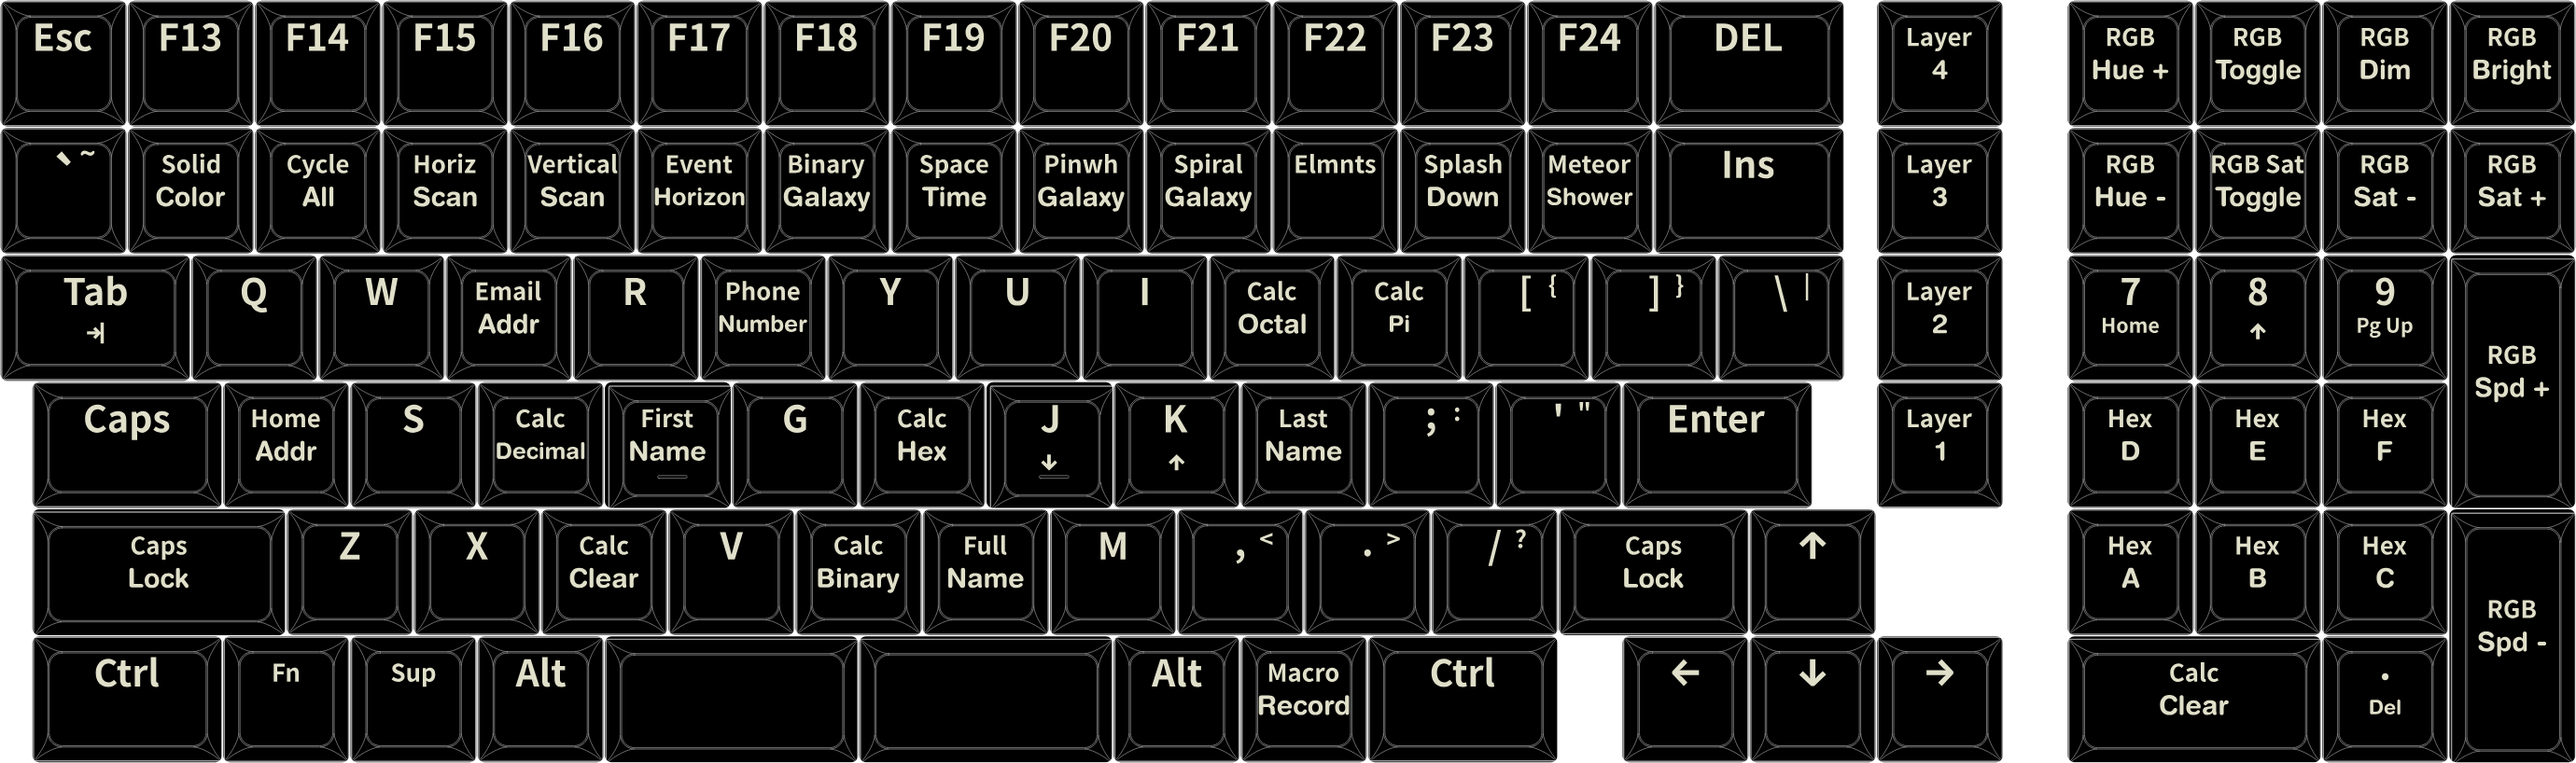
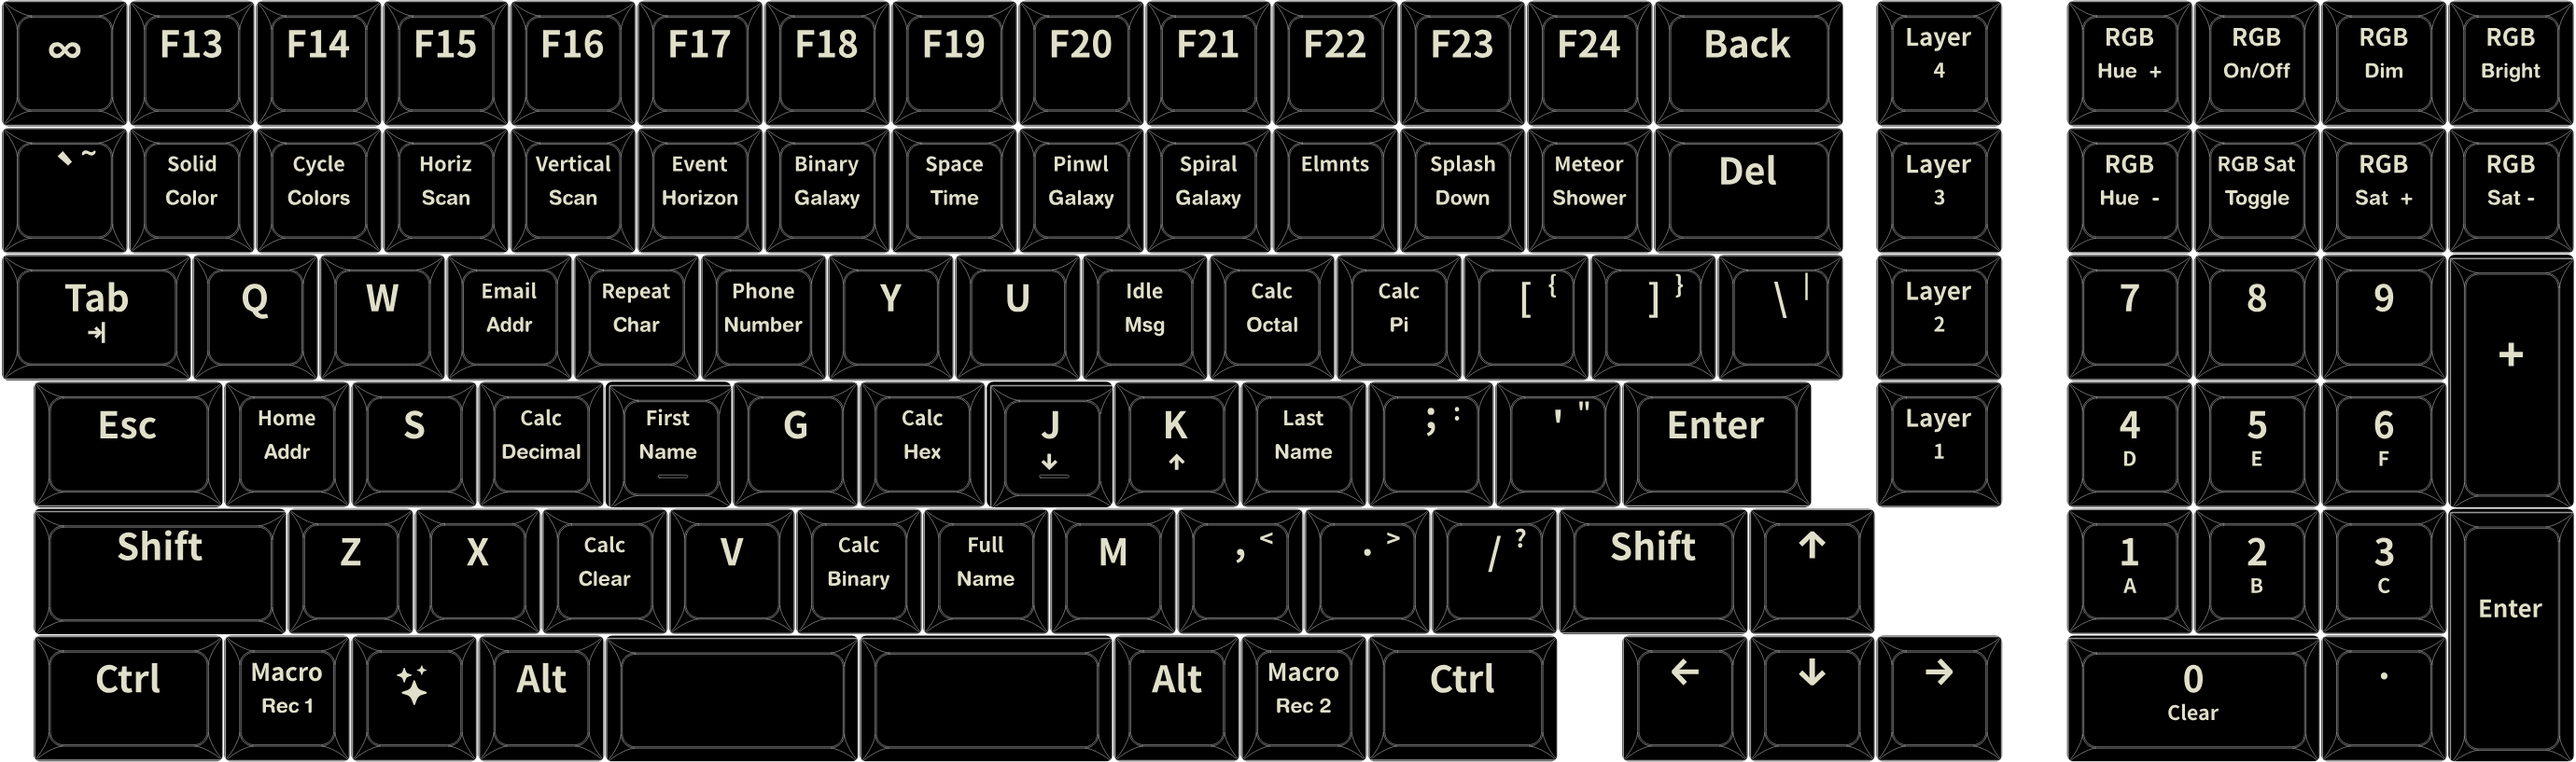
Numerous changes/fixes, added Repeat Character function

diff --git a/keymap.c b/keymap.c
@@ -1,10 +1,12 @@
 #include QMK_KEYBOARD_H
+#include "system76_ec.h"
 #include "process_record_handlers.h"
 #include "timer.h"
 #include "static_macros.h"
 #include "custom_keycodes.h"
 #include "idle_messages.h"
 #include "calculator.h"
+#include "repeat.h"
 #include "rgb.h"
 #include <stdio.h>
 
@@ -38,22 +40,22 @@ const uint16_t PROGMEM keymaps[][MATRIX_ROWS][MATRIX_COLS] = {
   /* Layer 0, default layer
 __________________________________________________________________________________________________________________________________  ________  ___________________________________
 |        |        |        |        |        |        |        |        |        |        |        |        |        |            ||        || PRINT  |  MUTE  | VOLUME | VOLUME |
-|  ESC   |   F1   |   F2   |   F3   |   F4   |   F5   |   F6   |   F7   |   F8   |   F9   |  F10   |  F11   |  F12   |  DELETE    ||  HOME  || SCREEN |        |  DOWN  |   UP   |
+| ESC/FN |   F1   |   F2   |   F3   |   F4   |   F5   |   F6   |   F7   |   F8   |   F9   |  F10   |  F11   |  F12   | BACKSPACE  ||  HOME  || SCREEN |        |  DOWN  |   UP   |
 |________|________|________|________|________|________|________|________|________|________|________|________|________|____________||________||________|________|________|________|
 |        |        |        |        |        |        |        |        |        |        |        |        |        |            ||        || NUM    | NUM    | NUM    | NUM    |
-|  ~`    |   1    |   2    |   3    |   4    |   5    |   6    |   7    |   8    |   9    |   0    |  _ -   | =  +   | BACKSPACE  ||  PGUP  || LOCK   | SLASH  |  *     |  -     |
+|  ~`    |   1    |   2    |   3    |   4    |   5    |   6    |   7    |   8    |   9    |   0    |  _ -   | =  +   |   DELETE   ||  PGUP  || LOCK   | SLASH  |  *     |  -     |
 |________|________|________|________|________|________|________|________|________|________|________|________|________|____________||________||________|________|________|________|
 |            |        |        |        |        |        |        |        |        |        |        |  [     |   ]    |        ||        || NUM    | NUM    | NUM    |        |
 |     TAB    |   Q    |   W    |   E    |   R    |   T    |   Y    |   U    |   I    |   O    |   P    |  {     |   }    |  |   \ ||  PGDN  ||  7     |  8     |  9     |        |
 |____________|________|________|________|________|________|________|________|________|________|________|________|________|________||________||________|________|________| NUM    |
   |            |        |        |        |        |        |        |        |        |        |   ;    |   '    |            |   |        || NUM    | NUM    | NUM    |  +     |
-  |    CAPS    |   A    |   S    |   D    |   F    |   G    |   H    |   J    |   K    |   L    |   :    |   "    |   ENTER    |   |  END   ||  4     |  5     |  6     |        |
+  |     ESC    |   A    |   S    |   D    |   F    |   G    |   H    |   J    |   K    |   L    |   :    |   "    |   ENTER    |   |  END   ||  4     |  5     |  6     |        |
   |____________|________|________|________|________|________|________|________|________|________|________|________|____________|___|________||________|________|________|________|
   |                |        |        |        |        |        |        |        |   ,    |    .   |   /    |            |        |         | NUM    | NUM    | NUM    |        |
   |     SHIFT      |   Z    |   X    |   C    |   V    |   B    |   N    |   M    |   <    |    >   |   ?    |   SHIFT    |   UP   |         |  1     |  2     |  3     |        |
   |________________|________|________|________|________|________|________|________|________|________|________|____________|________|________ |________|________|________| NUM    |
   |            |        |       |        |                 |                 |        |        |             |   |        |        |        ||       NUM       | NUM    | ENTER  |
-  |    CTRL    |   FN   |  SUP  |  LALT  |    SPACE        |      SPACE      |  RALT  |  MACRO |    CTRL     |   |  LEFT  |  DOWN  | RIGHT  ||        0        |  .     |        |
+  |    CTRL    | MACRO1 |  SUP  |  LALT  |    SPACE        |      SPACE      |  RALT  | MACRO2 |    CTRL     |   |  LEFT  |  DOWN  | RIGHT  ||        0        |  .     |        |
   |____________|________|_______|________|_________________|_________________|________|________|_____________|   |________|________|________||_________________|________|________|
 */
 
@@ -61,18 +63,18 @@ ________________________________________________________________________________
     LT(1,KC_ESC), KC_F1, KC_F2, KC_F3,  KC_F4,   KC_F5,   KC_F6,   KC_F7,   KC_F8,   KC_F9,   KC_F10,  KC_F11,  KC_F12,  KC_BSPC,      KC_HOME,  KC_PSCR, KC_MUTE, KC_VOLD, KC_VOLU,
     KC_GRV,  KC_1,    KC_2,    KC_3,    KC_4,    KC_5,    KC_6,    KC_7,    KC_8,    KC_9,    KC_0,    KC_MINS, KC_EQL,  KC_DEL,       KC_PGUP,  KC_NUM,  KC_PSLS, KC_PAST, KC_PMNS,
         KC_TAB,  KC_Q,    KC_W,    KC_E,    KC_R,    KC_T,    KC_Y,    KC_U,    KC_I,    KC_O,    KC_P,    KC_LBRC, KC_RBRC, KC_BSLS,  KC_PGDN,  KC_P7,   KC_P8,   KC_P9,   KC_PPLS,
-          KC_CAPS, KC_A,    KC_S,    KC_D,    KC_F,    KC_G,    KC_H,    KC_J,    KC_K,    KC_L,    KC_SCLN, KC_QUOT,    KC_ENT,       KC_END,   KC_P4,   KC_P5,   KC_P6,
+          KC_ESC,  KC_A,    KC_S,    KC_D,    KC_F,    KC_G,    KC_H,    KC_J,    KC_K,    KC_L,    KC_SCLN, KC_QUOT,    KC_ENT,       KC_END,   KC_P4,   KC_P5,   KC_P6,
           KC_LSFT,     KC_Z,    KC_X,    KC_C,    KC_V,    KC_B,    KC_N,    KC_M,    KC_COMM, KC_DOT,  KC_SLSH,    KC_RSFT,    KC_UP,           KC_P1,   KC_P2,   KC_P3,   KC_PENT,
-          KC_LCTL, MO(1), KC_LGUI,   KC_LALT,     KC_SPC,           KC_SPC,     KC_RALT,   DM_PLY1,   KC_RCTL,          KC_LEFT, KC_DOWN, KC_RGHT,        KC_P0,      KC_PDOT
+          KC_LCTL, DM_PLY1, KC_LGUI, KC_LALT,    KC_SPC,           KC_SPC,     KC_RALT,  DM_PLY2,   KC_RCTL,          KC_LEFT, KC_DOWN, KC_RGHT,    KC_P0,      KC_PDOT
   ),
 
    /* Layer 1, function layer
 __________________________________________________________________________________________________________________________________  ________  ___________________________________
 |        |        |        |        |        |        |        |        |        |        |        |        |        |            || LAYER  ||  RGB   |  RGB   |  RGB   |  RGB   |
-| QK_BOOT|  F13   |  F14   |  F15   |  F16   |  F17   |  F18   |  F19   |  F20   |  F21   |  F22   |  F23   |  F24   |    INS     ||   4    ||  HUE+  | TOGGLE |  DIM   | BRIGHT|
+|        |  F13   |  F14   |  F15   |  F16   |  F17   |  F18   |  F19   |  F20   |  F21   |  F22   |  F23   |  F24   | BACKSPACE  ||   4    ||  HUE+  | TOGGLE |  DIM   | BRIGHT|
 |________|________|________|________|________|________|________|________|________|________|________|________|________|____________||________||________|________|________|________|
 |        | SOLID  | CYCLE  | LEFT-> | UP->   | OUT->  | OUT->  | RAINBOW| PIN    | SPIRAL | RAIN   | SPLASH | MULTI  |            || LAYER  ||  RGB   | RGB SAT| RGB SAT| RGB SAT|
-|        | COLOR  | ALL    | RIGHT  | DOWN   | IN     | IN DUAL| CHAVRON| WHEEL  |        | DROPS  |        | SPLASH |    DEL     ||   3    ||  HUE-  | TOGGLE |    -   |    +   |
+|        | COLOR  | ALL    | RIGHT  | DOWN   | IN     | IN DUAL| CHAVRON| WHEEL  |        | DROPS  |        | SPLASH |   REBOOT   ||   3    ||  HUE-  | TOGGLE |    -   |    +   |
 |________|________|________|________|________|________|________|________|________|________|________|________|________|____________||________||________|________|________|________|
 |            |        |        |        |        |        |        |        |        |        |        |        |        |        || LAYER  ||        |        |        |        |
 |            |        |        | X_EMAIL|        | X_PHONE|        |        |KC_IDLE| C_OCT  |  C_PI  |        |        |        ||   2    ||        |        |        | RGB    |
@@ -84,19 +86,19 @@ ________________________________________________________________________________
   |    CAPS LOCK   |        |        | C_CLEAR|        | C_BIN  | X_NAME |        |        |        |        |  CAPS LOCK |        |         | C_HEXA | C_HEXB | C_HEXC | RGB    |
   |________________|________|________|________|________|________|________|________|________|________|________|____________|________|________ |________|________|________| EFFECT |
   |            |        |       |        |                 |                 |        | MACRO  |             |   |        |        |        ||                 |        | SPEED  |
-  |            |        |       |        |                 |                 |        | RECORD |             |   |        |        |        ||                 |        |   -    |
+  |            |        |QK_BOOT|        |                 |                 |        | RECORD |             |   |        |        |        ||                 |        |   -    |
   |____________|________|_______|________|_________________|_________________|________|________|_____________|   |________|________|________||_________________|________|________|
   * 'QK_BOOT' resets the controller and puts the board into firmware flashing mode. If this key is hit accidentally, just unplug the board
   *        and plug it back in.
   */
 
   [Second] = LAYOUT(
-    QK_BOOT, KC_F13,  KC_F14,  KC_F15,  KC_F16,  KC_F17,  KC_F18,  KC_F19,  KC_F20,  KC_F21,  KC_F22,  KC_F23,  KC_F24,  KC_DEL,       TO(3),    RGB_PREV, RGB_TOG, RGB_VAD, RGB_VAI,
-    _______, RGB_01,  RGB_02,  RGB_03,  RGB_04,  RGB_05,  RGB_06,  RGB_07,  RGB_08,  RGB_09,  RGB_10,  RGB_11,  RGB_12,  KC_INS,       TO(2),    RGB_NEXT, RGB_SAT, RGB_SATD, RGB_SATI,
-        _______, _______, _______, X_EMAIL, _______, X_PHONE,  _______, _______, KC_IDLE, C_OCT,   C_PI,    _______, _______, _______, LAYER1,    _______, _______, _______, RGB_SPDI,
+    _______, KC_F13,  KC_F14,  KC_F15,  KC_F16,  KC_F17,  KC_F18,  KC_F19,  KC_F20,  KC_F21,  KC_F22,  KC_F23,  KC_F24,  _______,      TO(3),    RGB_PREV, RGB_TOG, RGB_VAD, RGB_VAI,
+    _______, RGB_01,  RGB_02,  RGB_03,  RGB_04,  RGB_05,  RGB_06,  RGB_07,  RGB_08,  RGB_09,  RGB_10,  RGB_11,  RGB_12,  _______,      TO(2),    RGB_NEXT, RGB_SAT, RGB_SATD, RGB_SATI,
+        _______, _______, _______, X_EMAIL, KC_RPT,  X_PHONE,  _______, _______, KC_IDLE, C_OCT,   C_PI,    _______, _______, _______, LAYER1,    _______, _______, _______, RGB_SPDI,
           _______, X_ADDR,  _______, C_DEC,   X_FIRST, _______, C_HEX,   _______, _______,   X_LAST,  _______, _______,    _______,    TO(0),    C_HEXD,  C_HEXE,  C_HEXF,
-          KC_CAPS,     _______, _______, C_CLEAR, _______, C_BIN,   X_NAME, _______, _______, _______, _______,    KC_CAPS,  DT_UP,              C_HEXA,  C_HEXB,  C_HEXC,  RGB_SPDD,
-          _______, _______, _______, _______,     _______,          _______,    _______,   DM_REC1,  _______,        _______, DT_DOWN, DT_PRNT,         _______,    _______
+          _______,     _______, _______, C_CLEAR, _______, C_BIN,   X_NAME, _______, _______, _______, _______,    _______,  DT_UP,              C_HEXA,  C_HEXB,  C_HEXC,  RGB_SPDD,
+          _______, DM_REC1, _______, _______,     _______,          _______,    _______,   DM_REC2,  _______,        _______, DT_DOWN, DT_PRNT,         _______,    _______
   ),
 
   [Third] = LAYOUT(
@@ -257,6 +259,7 @@ bool rgb_matrix_indicators_advanced_user(uint8_t led_min, uint8_t led_max) {
     }
 
     calculator_rgb_display();
+    repeat_mode_display();
 
     // Make delete key red when not n insert mode
     if (!insert_mode) {
@@ -271,7 +274,7 @@ bool rgb_matrix_indicators_advanced_user(uint8_t led_min, uint8_t led_max) {
             .v = my_layer_rgb[0].hsv.v
         });
 
-        // Set base layer colors first
+        // Set base layer colors
         for (uint8_t row = 0; row < MATRIX_ROWS; row++) {
             for (uint8_t col = 0; col < MATRIX_COLS; col++) {
                 uint8_t index = g_led_config.matrix_co[row][col];
@@ -355,10 +358,29 @@ bool process_record_user(uint16_t keycode, keyrecord_t *record) {
         return false;    
     }
 
+    if (!handle_repeat(keycode, record)) {
+        return false;    
+    }
+
     if (keycode == KC_IDLE) {
         if(record->event.pressed) {
             // Flash idle-timer message
             idle_ms = IDLE_TIMEOUT_MS;
+        }
+        return false;
+    }
+
+    if (keycode == QK_BOOT) {
+        if (record->event.pressed) {
+            system76_ec_unlock();  // Unlock the bootloader
+            bootloader_jump();     // Immediately enter bootloader mode
+        }
+        return false;
+    }
+
+    if (keycode == Q_RESET) {
+        if (record->event.pressed) {
+            bootloader_jump();     // Immediately enter bootloader mode
         }
         return false;
     }

diff --git a/repeat.c b/repeat.c
@@ -1,0 +1,69 @@
+#include QMK_KEYBOARD_H
+#include "repeat.h"
+#include "rgb.h"
+#include "custom_keycodes.h"
+
+bool repeat_active = false;
+uint16_t repeat_count = 0;
+uint16_t repeat_mode_last_keycode = KC_NO;
+uint16_t rpt_last_key_timer;
+
+
+bool handle_repeat(uint16_t keycode, keyrecord_t *record) {
+    if (record->event.pressed) {
+        // FN + R toggles repeat mode
+        if (keycode == KC_RPT) {
+            repeat_active = !repeat_active; // Toggle repeat mode
+            repeat_count = 0;
+            return false;   // Keycode handled, don't process further
+        }
+        
+        if (repeat_active) {
+            // Cancel Repeat mode
+            if (keycode == KC_ESC) {
+                repeat_active = false;
+                return false;   // Keycode handled, don't process further
+            }
+
+            // Accept digits for repeat_count
+            if (keycode >= KC_P1 && keycode <= KC_P0) {
+                repeat_count *= 10;
+                if (keycode != KC_P0) {
+                    repeat_count += keycode - KC_P1 + 1;
+                }
+                repeat_mode_last_keycode = keycode;
+                rpt_last_key_timer = timer_read();
+                return false;   // Keycode handled, don't process further
+            } else {
+                repeat_mode_last_keycode = KC_NO;
+            }
+
+            // Keycode is not ESC or a digit, so repeat the keycode
+            repeat_active = false; // Disable repeat mode
+            if (repeat_count > 0) {
+                for (uint8_t i = 0; i < repeat_count; i++) {
+                    tap_code(keycode);
+                }
+                return false;   // Keycode handled, don't process further
+            }
+        }
+    }
+    return true; // Keycode not handled, continue processing
+}
+
+
+void repeat_mode_display(void) {
+    // Handle RGB display in repeat mode 
+
+    if (repeat_active) {
+        // Highlight numpad digits when in repeat mode
+        for (uint8_t i = KC_P1; i <= KC_P0; i++) {
+            set_keycode_color(i, rgb(RGB_GREEN));
+        }
+
+        // Provide visual feedback for the last digit pressed
+        if (repeat_mode_last_keycode != KC_NO && timer_elapsed(rpt_last_key_timer) < 500) {
+            set_keycode_color(repeat_mode_last_keycode, rgb(RGB_RED));
+        }
+    }
+}

diff --git a/process_record_handlers.c b/process_record_handlers.c
@@ -5,7 +5,8 @@
 #include "custom_keycodes.h"
 
 extern const rgb_mode_map rgb_modes[];
-static bool shift_no_keys_pressed;
+bool left_shift_pressed;
+bool right_shift_pressed;
 
 // Tap Shift to toggle Caps Word
 // CTRL + Shift = Caps Lock
@@ -13,24 +14,22 @@ bool handle_shift_keys(uint16_t keycode, keyrecord_t *record) {
     switch (keycode) {
         case KC_LSFT:  // Left Shift key
         case KC_RSFT:  // Right Shift key
+            if (keycode == KC_LSFT) {
+                left_shift_pressed = record->event.pressed;
+            } else {
+                right_shift_pressed = record->event.pressed;
+            }
             if (record->event.pressed) {        // Key pressed
                 if (get_mods() & MOD_MASK_CTRL) {
                     // CTRL + Shift = Caps Lock
                     clear_mods();
                     tap_code(KC_CAPS);
-                } else {
-                    // Watch for other keys being pressed
-                    shift_no_keys_pressed = true;
-                }
-            } else {                            // Key released
-                if (shift_no_keys_pressed) {
-                    // Tap Shift to toggle Caps Word
+                } else if (left_shift_pressed && right_shift_pressed) {
+                    // Tap Both Shift Keys to toggle Caps Word
                     caps_word_toggle();
-                }
+                }            
             }
             return true;
-        default:
-            shift_no_keys_pressed = false;
     }
     return false;
 }
@@ -56,7 +55,7 @@ bool handle_rgb_controls(uint16_t keycode, keyrecord_t *record, rgb_config_t *la
                 rgb_matrix_decrease_hue();
                 layer_rgb[0].hsv.h = rgb_matrix_get_hue();
                 return true;
-            // Brightness controls mirror audio controls on same buttons    
+            // Brightness controls mirror audio controls on same buttons
             case RGB_TOG:   // FN + Mute to toggle RGB
                 layer_rgb[0].enable = !layer_rgb[0].enable;
                 rgb_matrix_toggle();

diff --git a/process_record_handlers.h b/process_record_handlers.h
@@ -5,6 +5,8 @@
 bool handle_shift_keys(uint16_t keycode, keyrecord_t *record);
 bool handle_rgb_controls(uint16_t keycode, keyrecord_t *record, rgb_config_t *layer_rgb);
 bool handle_macros(uint16_t keycode, keyrecord_t *record);
+extern bool left_shift_pressed;
+extern bool right_shift_pressed;
 
 typedef struct {
     uint16_t keycode;

diff --git a/repeat.h b/repeat.h
@@ -1,0 +1,9 @@
+#pragma once
+#include "custom_keycodes.h"
+#include "rgb.h"
+
+extern bool repeat_active;
+extern uint16_t repeat_count;
+
+bool handle_repeat(uint16_t keycode, keyrecord_t *record);
+void repeat_mode_display(void);

diff --git a/calculator.c b/calculator.c
@@ -483,10 +483,6 @@ double perform_operation(double result, char operator, double operand) {
     return result;
 }
 
-
-
-
-
 void calculator_rgb_display(void) {
 
     // Default colors (direct assignment)

diff --git a/custom_keycodes.h b/custom_keycodes.h
@@ -40,5 +40,6 @@ enum custom_keycodes {
     C_HEXE,
     C_HEXF,
     C_PI,
-    KC_IDLE
+    KC_IDLE,
+    KC_RPT
 };

diff --git a/README.md b/README.md
@@ -2,33 +2,33 @@
 
 This is my personal keymap for the System76 Launch Heavy 3 keyboard.
 
-## Features
-
-- Base QWERTY layer
-- Function layer with RGB effects and controls
-- Numpad calculator mode
-
 ## Layers
 
 ### Layer 0: Base
 ![Layer 0](./layout.png)
-Shinethrough keycaps from [FKcustom](https://fkcaps.com/custom/2S5MWD/)
+Shinethrough keycaps from [FKcustom](https://fkcaps.com/custom/EQU8WA)
 - Standard QWERTY layout
 - Modifier keys in ergonomic positions
-- Macro play key
+- Macro play keys
 - Layer toggle keys
-- Tap shift keys for Caps-Word
+- Tap both shift keys for Caps-Word
 - Shift-Bcksp for Delete
 - Shift-Delete for Insert
 
 ### Layer 1: Function Keys
 ![Layer 1](./fn_layer.png)
 - F12-F24 keys
+- Layer selection on nav cluster
 - Select RGB Effects on number row
 - Adjust RGB lighting controls on num pad / media keys
 - Macro record
 - Static macro keys
 - Calculator Binary/Octal/Decimal/Hexadecimal/Pi
+- Fn + R to repeat character
+  - Fn + R
+  - Enter repeat count on numpad
+  - Type character to repeat
+- Fn + I to play random idle-timeout message
 
 ## Macros
 ### Dynamic Macro Recording
@@ -55,7 +55,7 @@ Shinethrough keycaps from [FKcustom](https://fkcaps.com/custom/2S5MWD/)
 - Shift-/ for modulus
 - Shift-* for exponents (defaults to ^2)
 - Shift-- for root (defaults to square root)
-- Shift-0 to clear entry
+- Shift-0 to clear entry (or Fn + C)
 - Shift-0 again to clear all
 - Fn-D for Decimal
 - Fn-O for Octal
